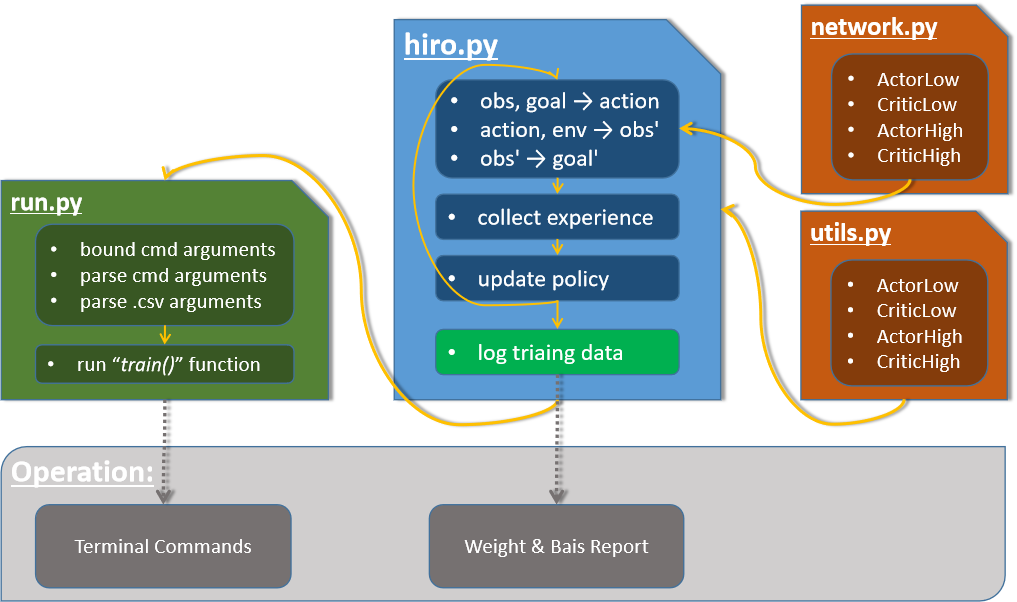
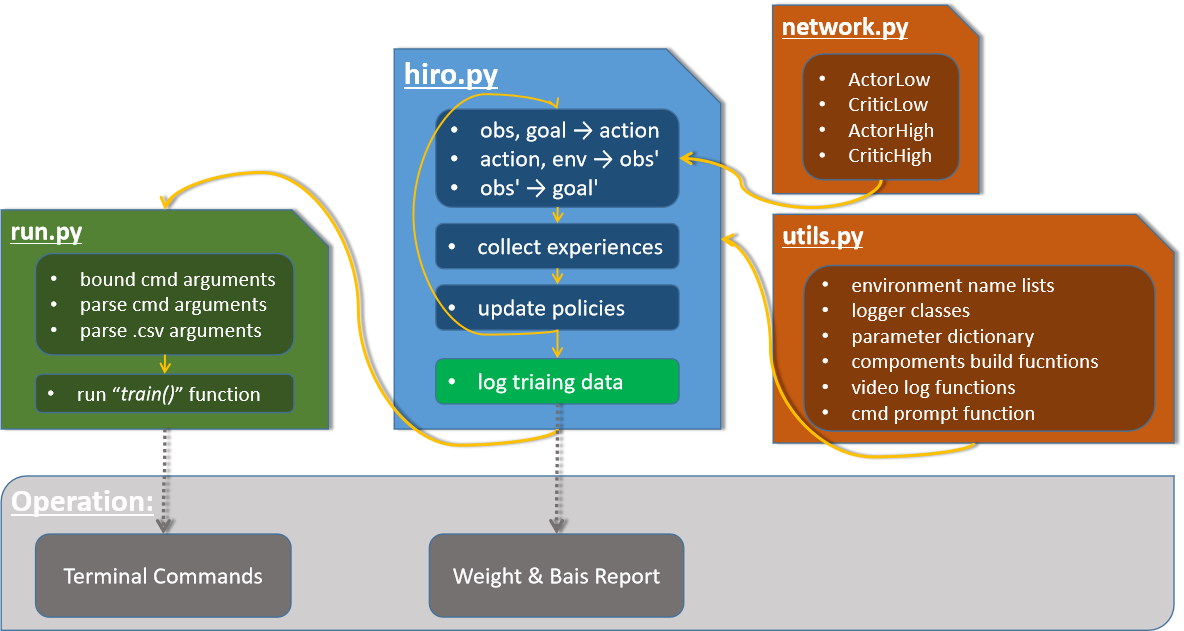
midified cmd code

diff --git a/run.py b/run.py
@@ -80,16 +80,19 @@ def bool_args_preprocess(args):
     global true_strings
     global false_string
     for param_name in bool_params_list:
-        param = getattr(args, param_name)
-        if param is not None:
-            if param in true_strings:
-                setattr(args, param_name, True)
-            elif param in false_string:
-                setattr(args, param_name, False)
-            elif param in none_string:
+        try:
+            param = getattr(args, param_name)
+            if param is not None:
+                if param in true_strings:
+                    setattr(args, param_name, True)
+                elif param in false_string:
+                    setattr(args, param_name, False)
+                else:
+                    raise ValueError('Command line boolean argument typo: {}'.format(param_name))
+            if param in none_string:
                 setattr(args, param_name, None)
-            else:
-                raise ValueError('Command line boolean argument typo: {}'.format(param_name))
+        except Exception as e:
+            pass
 
 
 def bool_params_preprocess(file_param):
@@ -105,10 +108,10 @@ def bool_params_preprocess(file_param):
                     file_param[param_name] = True
                 elif param in false_string:
                     file_param[param_name] = False
-                elif param in none_string:
-                    file_param[param_name] = None
                 else:
                     raise ValueError('CSV boolean argument typo.')
+            if param in none_string:
+                file_param[param_name] = None
         except Exception as e:
             pass
 

diff --git a/README.md b/README.md
@@ -5,7 +5,7 @@ Implementation practice of RL project, the second project
 ### Contents:
 
 * [Intro to HIRO](# Intro to HIRO)
-* Understand value-based RL method: **[From Q-Learning to TD3](./From Q-Learning to TD3.md)**
+* Understand value-based RL methods: **[From Q-Learning to TD3](./From Q-Learning to TD3.md)**
 * [Implementation structure](#Implementation Structure)
 * [Start to use this code base](# Start to use this code base)
 * [Experiment results](#Experiment Results)
@@ -108,12 +108,12 @@ where $k$ is explore-noise boundary
 
 ## Implementation Structure
 
-The original paper does not explain its algorithm in pseudo-code. To make the algorithm clear and simple, The code structure of this implementation is simpler compared with the original implementation. This implementation basically follows the structure of an off-policy training code structure. Below is a quick view of all crucial python files.
+The code structure of this implementation is simpler compared with the original implementation. This implementation basically follows the structure of an off-policy training code structure. Below is a quick view of all crucial python files.
 
 *  run.py: take in command from a terminal, parse arguments and launch experiments accordingly
-*  hiro.py: training loop is the core code segment. It trains the algorithms and uses services provided by other codes
+*  hiro.py: contains the training loop as the core code segment. It trains the algorithms and uses components provided by other python files
 *  networks.py: holds NNs used in training process
-*  utils.py: holds util classes, functions and frequently used data
+*  utils.py: holds util classes, functions and utility data
 *  experience_buffer.py: holds the experience buffer class
 
 <img src=".\readme_data\code_structure.jpg" alt="code_structure" style="zoom:65%;" />
@@ -121,7 +121,7 @@ The original paper does not explain its algorithm in pseudo-code. To make the al
 **Hint:**
 
 * only uses positional parameters to form goal
-* set delayed parameter update interval to be 1
+* set delayed parameter update interval to 1
 
 ## Start to Use This Code Base
 
@@ -166,7 +166,7 @@ This experiment runs on CPU, the final results should be like this:
 
 
 
-### Play Code & Launch Experiments
+### Launch Experiments & Play Code
 
 #### Command Line Interface
 
@@ -187,9 +187,9 @@ This codebase allows users to run experiments with accessibility to every parame
 
     `(CUDA_VISIBLE_DEVICE=1) python run.py --alg=hiro --param_id=1 --start_timestep=250000 --policy_freq=2`
 
-  * note `td3` algorithm can only run on CPU
+  * note that `td3` algorithm can only run on CPU
 
-* Add your customized experiment settings to `.csv` file to create a convenient baseline of training commands
+* Add your customized experiment settings to `.csv` file to create a convenient baseline for training commands
 
 #### Evaluation
 
@@ -199,13 +199,14 @@ Not implement.
 
 ### Ant Push
 
-* Segment reward (each 10 time steps) for low-level policy:
+* **Segment reward (each $c$=10 time steps) for low-level policy:**
 
 <div style="display:flex;">
     <div style="display:flex; margin:auto;">
         <img src=".\readme_data\hiro-push-epiR_l.png" alt="hiro-push-epiR_l" width="1000" style="padding: 5px;"/>
     </div>
 </div>
+
 
 * Segment reward (each 10 time steps) for high-level policy:
 
@@ -215,11 +216,11 @@ Not implement.
     </div>
 </div>
 
-* Success Rate: (missing)
+* **Success Rate: (missing)**
 
   converge at around 0.6
 
-* Episode Videos:
+* **Episode Videos:**
 
 <div style="display:flex;">
     <div style="display:flex; margin:auto;">
@@ -241,7 +242,12 @@ Not implement.
 
 ## Project Summary
 
-* schedule
+#### Things Done:
+
+#### Laciness:
+
+* schedule ...
 * understanding of paper is essential
 * analyze errors & locate bugs
+* ask too little
 
